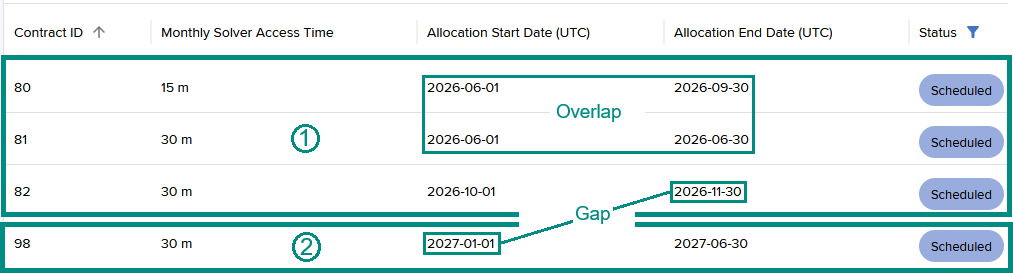
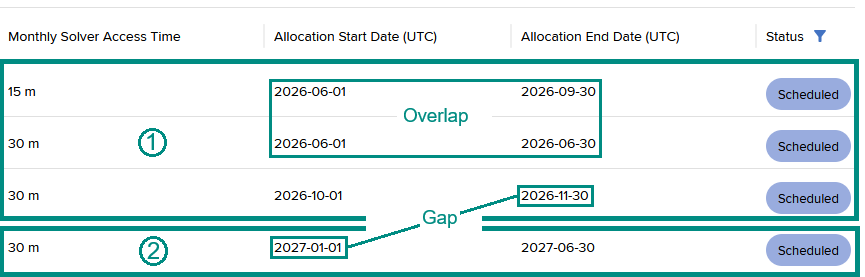
Implement feedback

diff --git a/docs/leap_sapi/admin.rst b/docs/leap_sapi/admin.rst
@@ -40,9 +40,9 @@ Searching Globally
 ------------------
 
 Via the Global Search field as shown in :numref:`Figure %s <AdminGlobalSearch>`,
-you can search for projects and members across all organizations and projects.
-The text matches any part of a project, or member name (including an email
-address).
+you can search for projects and members across all projects in the current
+organization. The text matches any part of a project, or member name (including
+an email address).
 
 .. figure:: ../_images/leap_admin_global_search.png
     :name: AdminGlobalSearch
@@ -149,8 +149,8 @@ Some actions include the following:
         that differ only by diacritical mark are grouped together, they may not
         always be sorted in the same order.
 
-Terminology
------------
+Terminology and Conventions
+---------------------------
 
 *   **Application**
 
@@ -234,9 +234,6 @@ Terminology
     specific period of days.
 
     For more information, see :ref:`sat_record`.
-
-Conventions
------------
 
 For sequential steps in the user interface, variables are indicated
 in italics; for example, **Leap Admin** > *project_name*.
@@ -451,28 +448,25 @@ You may find the following field descriptions helpful.
 
 .. tabularcolumns:: |l|L|
 
-.. list-table:: **Current Usage** Section (Time-based Projects Only)
+.. list-table:: **Overview** Section
     :widths: 1 3
 
-    *   -   **Project Monthly Solver Time Usage**
-        -   Percent of solver-access time used in the project for the current
-            renewal period.
-
-.. tabularcolumns:: |l|L|
-
-.. list-table:: **Project Details** Section
-    :widths: 1 3
-
-    *   -   **Project Name**
-        -   Name of the project.
-
-    *   -   **System Project ID**
+    *   -   **Project Code**
         -   Unique identifier for a project. It is used for internal purposes,
             such as a prefix for the project's API token.
 
     *   -   **Customer Reference ID**
         -   ID that you provide and which can be used for your specific internal
             processes.
+
+.. tabularcolumns:: |l|L|
+
+.. list-table:: **Current Usage** Section (Time-based Projects Only)
+    :widths: 1 3
+
+    *   -   **MonthlyUsage**
+        -   Amount and percent of solver-access time used in the project for the
+            current renewal period.
 
 Viewing Project Seats
 ---------------------
@@ -573,7 +567,8 @@ You may find the following field descriptions helpful.
             determined by the customer contract.
 
     *   -   **Anniversary Date (UTC)**
-        -   The anniversary date is used to calculate the renewal date.
+        -   The anniversary date is used to calculate the renewal date for
+            monthly solver-access time.
 
     *   -   **Status**
         -   **Active**: The current date is between the record's start and end
@@ -773,60 +768,60 @@ To invite people to join a project or organization, click |plus_icon| >
 
 You may find the following field descriptions helpful.
 
-    .. tabularcolumns:: |l|p{9cm}|
+.. tabularcolumns:: |l|p{9cm}|
 
-    .. list-table:: Invitation Dialog Box
+.. list-table:: Invitation Dialog Box
 
-        *   -   **Organization**
-            -   (Read-only) Organization to which you are inviting people.
+    *   -   **Organization**
+        -   (Read-only) Organization to which you are inviting people.
 
-        *   -   **Project**
-            -   Project to which you are inviting people.
+    *   -   **Project**
+        -   Project to which you are inviting people.
 
-        *   -   **Seat Type**
-            -   An available seat type for the invitees. For more information,
-                see the :ref:`admin_seat_types` section.
+    *   -   **Seat Type**
+        -   An available seat type for the invitees. For more information,
+            see the :ref:`admin_seat_types` section.
 
-        *   -   **Email**
-            -   Email addresses or member names (if they already exist in the
-                Leap service) of the people you want to invite to the project.
+    *   -   **Email**
+        -   Email addresses or member names (if they already exist in the
+            Leap service) of the people you want to invite to the project.
 
-                **Tip:**
+            **Tip:**
 
-                *   You can copy and paste multiple email addresses from either
-                    a single column in an Excel spreadsheet or a semicolon-,
-                    space-, new line-, or comma-delimited list (for example, a
-                    CSV file).
+            *   You can copy and paste multiple email addresses from either
+                a single column in an Excel spreadsheet or a semicolon-,
+                space-, new line-, or comma-delimited list (for example, a
+                CSV file).
 
-            **Note:** If the desired email address is not allowed as specified
-            (individually or by pattern) in the **Allowed Email Settings**
-            section on the **Overview** page, contact |support_email|_.
+        **Note:** If the desired email address is not allowed as specified
+        (individually or by pattern) in the **Allowed Email Settings**
+        section on the **Overview** page, contact |support_email|_.
 
-    *   -   **Role**
-        -   One of the project member :ref:`roles <admin_user_roles>` to assign
-            to a person: **User**, **Project Admin**, or **Organization Admin**.
-            Only an organization administrator can assign the
-            **Organization Admin** role.
+*   -   **Role**
+    -   One of the project member :ref:`roles <admin_user_roles>` to assign
+        to a person: **User**, **Project Admin**, or **Organization Admin**.
+        Only an organization administrator can assign the
+        **Organization Admin** role.
 
-            Once people occupy seats in a project, they have the privileges
-            associated with their role as described in :ref:`admin_user_roles`;
-            for example, access to the project's solvers.
+        Once people occupy seats in a project, they have the privileges
+        associated with their role as described in :ref:`admin_user_roles`;
+        for example, access to the project's solvers.
 
-    *   -   **Set Solver Access to Unlimited** (time-based projects only)
-        -   Maximum amount of solver-access time available per month for the
-            specified invitees. You set this maximum with one of the
-            following options:
+*   -   **Set Solver Access to Unlimited** (time-based projects only)
+    -   Maximum amount of solver-access time available per month for the
+        specified invitees. You set this maximum with one of the
+        following options:
 
-                *   *Deselected*
+        *   *Deselected*
 
-                    (Default) This field is set to the amount of solver-access
-                    time in the **Project Member Default Solver Access Limit**
-                    field.
+            (Default) This field is set to the amount of solver-access
+            time in the **Project Member Default Solver Access Limit**
+            field.
 
-                *   *Selected*
+        *   *Selected*
 
-                Sets the maximum amount of solver-access time to the same as
-                that of the project's **Default Solver Access Limit** field.
+        Sets the maximum amount of solver-access time to the same as
+        that of the project's **Default Solver Access Limit** field.
 
 .. _admin_member_status_viewing:
 

diff --git a/docs/shared/admin.rst b/docs/shared/admin.rst
@@ -10,8 +10,7 @@
 
     The maximum amount of solver-access time that a member or application can
     consume for a monthly renewal period. This maximum cannot be greater than
-    the project's total amount of solver-access time, which is unlimited for
-    most seat-based projects.
+    the project's total amount of solver-access time.
 
 .. |meatball_menu| image:: ../_images/leap_kebab_menu.png
     :scale: 50 %